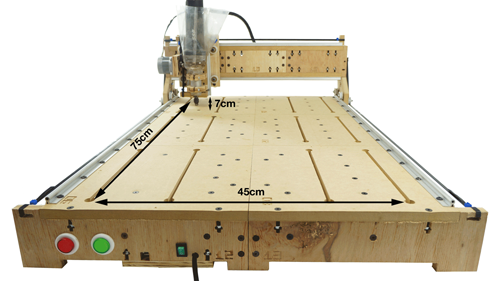
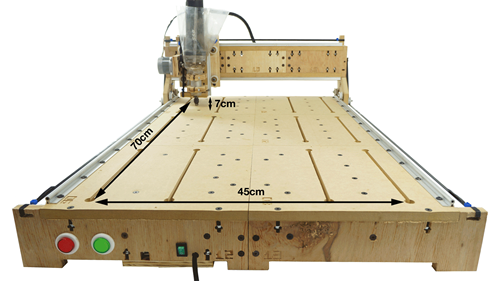
correções - em textos e imagens do site

diff --git a/www/index.html b/www/index.html
@@ -553,7 +553,7 @@
                             <strong>Adaptador</strong> de pinça para fresas de 3,17mm
                         </li>
                         <li>
-                            Acompanha <strong>Spindle</strong> de 700w
+                            Acompanha <strong>Spindle</strong> de 400w
                         </li>
                     </ul>
 
@@ -751,7 +751,7 @@
                             Área Útil de Trabalho (X,Y,Z)
                         </span>
                         <span class="info">
-                            <i>75cm x 45cm x 07cm</i>
+                            <i>70cm x 45cm x 07cm</i>
                         </span>
                     </li>
                     <li>
@@ -797,7 +797,7 @@
                             Motor Spindle
                         </span>
                         <span class="info" style="text-align: right">
-                            Motor DC com escovas, máximo 700w <sup style="font-size: 10px">(retificadeira Makita SSP ou similar)</sup>
+                            Motor DC com escovas, máximo 400w <sup style="font-size: 10px">(retificadeira Makita SSP ou similar)</sup>
                         </span>
                     </li>
                     <li>
@@ -819,7 +819,7 @@
                             Consumo
                         </span>
                         <span class="info" style="text-align: right">
-                            máximo 850w
+                            máximo 550w
                         </span>
                     </li>
                     <li>
